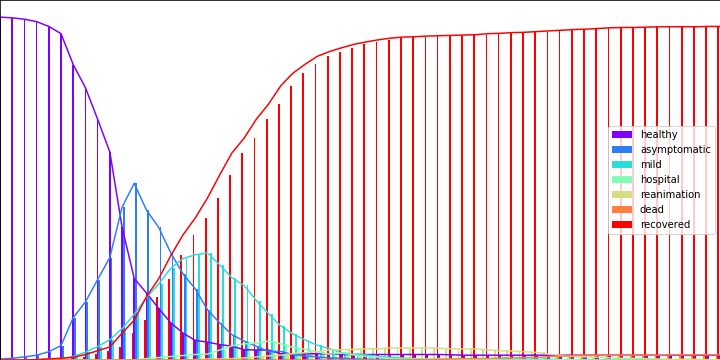
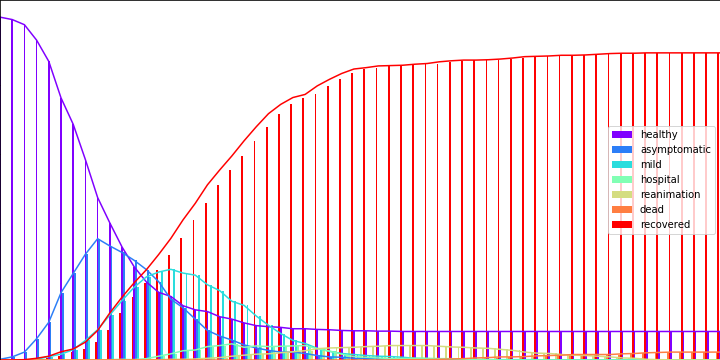
computation of R coefficient fixed, notebook completed

diff --git a/classes.py b/classes.py
@@ -87,6 +87,7 @@ class Agent:
         self.current_state_age = 0
         self.current_state_index = self.name2index.get(current_state.get_name())
         self.least_severe_state = get_least_severe_state(states)
+        self.been_infected = False
 
 
     def get_id(self):
@@ -130,10 +131,20 @@ class Agent:
         preventing absurd behavior like agent getting to a less severe state after infection """
         if self.current_state.get_severity() < self.least_severe_state.get_severity():
             self.set_state(self.least_severe_state)
+            self.been_infected = True
 
     def is_infected(self):
         """ an agent is considered infected if its state has a contagiousity or a severity > 0 """
         return (self.current_state.get_contagiousity() > 0 or self.current_state.get_severity() > 0) and (self.current_state.get_severity() < 1)
+
+    
+    def has_been_infected(self):
+        """ if the agent has already been affected in the past (for R coeff calculation) """
+        return self.been_infected
+
+
+    def is_contagious(self):
+        return self.current_state.get_contagiousity() > 0
 
 
     def get_next_state(self, state):
@@ -241,7 +252,8 @@ class Map:
         self.verbose = verbose
         self.n_cells = len(cells)
         self.n_agents = len(agents)
-        self.n_infected_agents = len([agent for agent in agents if agent.is_infected()])
+        self.n_infected_agents = len([agent for agent in agents if agent.has_been_infected()])
+        self.n_contagious_agents = len([agent for agent in agents if agent.is_contagious()])
         self.r = 0  # R coeff: how many agent does an infected agent infect in average
         # Define dicts to access own cells and agents
         self.id2cell = {cell.get_id(): cell for cell in cells}
@@ -321,12 +333,13 @@ class Map:
         for agent in self.agents:
             agent.forward()
         # Update R coeff after a global forward
-        new_n_infected_agents = len([agent for agent in self.agents if agent.is_infected()])
-        if new_n_infected_agents == 0 or self.n_infected_agents == 0:
+        new_n_infected_agents = len([agent for agent in self.agents if agent.has_been_infected()])
+        if new_n_infected_agents == 0 or self.n_contagious_agents == 0:
             self.r = 0
         else:
-            self.r = (new_n_infected_agents - self.n_infected_agents) / self.n_infected_agents
+            self.r = (new_n_infected_agents - self.n_infected_agents) / self.n_contagious_agents
         self.n_infected_agents = new_n_infected_agents
+        self.n_contagious_agents = len([agent for agent in self.agents if agent.is_contagious()])
 
 
     def get_repartition(self):

diff --git a/README.md b/README.md
@@ -10,7 +10,7 @@ This is the implementation in Python of a propagation model that we propose to c
 [:fr:](https://gist.github.com/Helmasaur/fb8ca2c08131c58341d443b43672a1f5) For French, see this [blog article](https://blog.parcoor.com/2020-04-22-cast-prediction-propagation/)
 
 ## Usage
-See this [notebook](toy_simulation.ipynb) for a (toy) example of an implementation of this model
+See this [notebook](examples/example0.ipynb) for a (toy) example of an implementation of this model
 
 ![CAST state time evolution](../master/img/nevolution.png?raw=true "CAST state time evolution")
 
